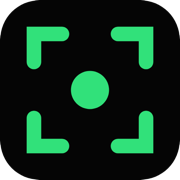
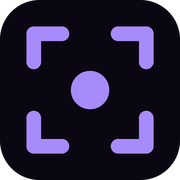
Rework theme to purple, refresh copy, add hover polish and CGPA
Switches the accent palette from green to purple with a deeper purple-tinted
background, strips the scanning-UI photo treatment for a clean rounded
frame, repositions the copy around building next-gen human-computer
interaction rather than voice agents specifically, adds intuitive hover
highlighting across tiles/cards, updates the favicon set to match the new
theme, and adds undergrad CGPA.

diff --git a/src/App.js b/src/App.js
@@ -46,9 +46,9 @@ function App() {
       <header className="hero">
         <div className="wrap hero-grid">
           <div className="hero-content">
-            <div className="hero-tag">Product Manager II · AI Native Experiences</div>
-            <h1>Kummetha Sai Charan</h1>
-            <div className="hero-role">Building <span>voice agents and AI agents</span> that operate at scale — turning emerging AI capability into trustworthy, everyday product experience.</div>
+            <div className="hero-tag">Builder · AI Native Product Experiences</div>
+            <h1>Sai Charan Kummetha</h1>
+            <div className="hero-role">I lead and build <span>the next generation of human-computer interaction</span> at scale — using what LLMs make possible to create AI products that actually work, solving real problems for users while driving net-positive outcomes for the business.</div>
 
             <div className="status-grid">
               <div className="status-item">
@@ -57,7 +57,7 @@ function App() {
               </div>
               <div className="status-item">
                 <div className="status-label">FOCUS</div>
-                <div className="status-value">VOICE + AI AGENTS, AT SCALE</div>
+                <div className="status-value">NEXT-GEN HCI, AT SCALE</div>
               </div>
               <div className="status-item">
                 <div className="status-label">LOCATION</div>
@@ -78,12 +78,9 @@ function App() {
           </div>
 
           <div className="hero-photo">
-            <div className="hero-photo-ring"></div>
             <div className="hero-photo-frame">
-              <img src={process.env.PUBLIC_URL + '/images/headshot.png'} alt="Kummetha Sai Charan" />
-              <div className="scan-line"></div>
+              <img src={process.env.PUBLIC_URL + '/images/headshot.png'} alt="Sai Charan Kummetha" />
             </div>
-            <div className="hero-photo-tag"><span className="dot"></span>SCK-01 // VERIFIED</div>
           </div>
         </div>
       </header>
@@ -96,11 +93,13 @@ function App() {
             <span className="module-rule"></span>
           </div>
           <p className="summary-text">
-            Product Manager with engineering experience — more than 5 years across Product Management, Software Engineering, and Applied AI.
-            Built and scaled 0→1 and growth-stage products spanning AI platforms, large-scale consumer applications,
-            marketplaces, supply chain, and financial workflows — combining strong product execution with deep
-            technical grounding in distributed systems, LLMs, voice agents, developer platforms, and data-driven
-            experimentation.
+            A builder first — more than 5 years across Product Management, Software Engineering, and Applied AI,
+            leading and shipping 0→1 and growth-stage products that solve real problems, not just manage roadmaps.
+            Built and scaled products spanning AI platforms, large-scale consumer applications, marketplaces, supply
+            chain, and financial workflows — combining strong product execution with deep technical grounding in
+            distributed systems, LLMs, conversational and agentic interfaces, developer platforms, and data-driven experimentation to drive
+            outcomes that are net-positive for users and the business alike. Long-term, I'm working toward building
+            a technology company of my own — at the convergence of AI, consumer tech, and AEC.
           </p>
         </section>
 
@@ -133,12 +132,11 @@ function App() {
                 <span className="entry-org">Vegrow</span>
                 <span className="entry-dates">JUL 2024 — FEB 2026</span>
               </div>
-              <p className="entry-story">Working at a hypergrowth startup meant learning and executing at an exceptional pace — gaining first-hand exposure to strategy, GTM, and data-driven decision-making. More than anything, I learned to navigate ambiguity: using data, customer insight, and cross-functional collaboration to build products that solved real business problems.</p>
+              <p className="entry-story">Working at a hypergrowth startup meant learning and executing at an exceptional pace — building and scaling products across AI, marketplaces, supply chain intelligence, and financial workflows, with first-hand exposure to strategy, GTM, finance, and data-driven decision-making. More than anything, I learned to navigate ambiguity: operating at the intersection of product and engineering, using data, customer insight, and cross-functional collaboration to build products that solved real business problems.</p>
               <ul>
-                <li>Built and scaled Vegrow's AI Voice Platform from prototype to 30,000+ conversations/month across NPS, profiling, slot booking, and ops workflows.</li>
-                <li>Improved task completion from 40% to 70% through conversation redesign, latency optimization, and interruption handling.</li>
-                <li>Raised NPS from 30 to 65 via structured feedback capture, sentiment analysis, and automated stakeholder reporting.</li>
-                <li>Built pluggable STT/TTS/LLM orchestration with evaluation and observability systems for rapid experimentation.</li>
+                <li>Led 0→1 development of Vegrow's AI Voice Platform, scaling it from prototype to 30,000+ conversations/month across NPS, profiling, slot booking, and ops workflows.</li>
+                <li>Improved task completion from 40% to 70% through conversation redesign, latency optimization, and interruption handling; raised NPS from 30 to 65 via structured feedback capture and sentiment analysis.</li>
+                <li>Built pluggable STT/TTS/LLM orchestration and AI platforms that accelerated experimentation and cut manual effort, positioning AI as a core layer across product and operations.</li>
                 <li>Delivered supply chain &amp; finance products supporting ₹70 Cr+ GMV, plus a Procure-to-Pay platform cutting approval turnaround by 40%.</li>
               </ul>
             </div>
@@ -150,11 +148,11 @@ function App() {
                 <span className="entry-org">Vegrow</span>
                 <span className="entry-dates">OCT 2022 — JUN 2024</span>
               </div>
-              <p className="entry-story">Progressing from SDE-I to leading an 8-member team in under two years, during Vegrow's 5× revenue growth, taught me as much about team dynamics and execution as it did about distributed systems. It was my first time leading engineers — and the same period I was invited to Google's Foobar Challenge.</p>
+              <p className="entry-story">Progressing from SDE-I to leading an 8-member team in under two years, during Vegrow's 5× revenue growth, taught me as much about team dynamics and execution as it did about distributed systems — Golang, Kafka, event-driven architecture, and scaling infrastructure for hypergrowth. It was my first time leading engineers — and the same period I was invited to Google's Foobar Challenge.</p>
               <ul>
                 <li>Progressed from SDE-I to leading an 8-member team during Vegrow's scale from ₹100 Cr to ₹500 Cr+ revenue.</li>
-                <li>Architected QR-based inventory traceability infrastructure in Golang, Kafka, and MongoDB.</li>
-                <li>Migrated core infrastructure from AWS ECS to EKS and built out CI/CD automation.</li>
+                <li>Led development of QR-based inventory traceability platforms in Golang, Kafka, and MongoDB, digitizing supply-chain operations for end-to-end tracking of perishable goods.</li>
+                <li>Built scalable authentication services and internal frameworks, improving platform reliability and observability; migrated core infrastructure from AWS ECS to EKS with CI/CD automation.</li>
                 <li>Contributed LiDAR + stereo-capture pipelines to the Velens computer vision initiative.</li>
               </ul>
             </div>
@@ -166,11 +164,11 @@ function App() {
                 <span className="entry-org">LivSYT</span>
                 <span className="entry-dates">MAY 2021 — OCT 2022</span>
               </div>
-              <p className="entry-story">This role laid the foundation for my engineering career. I spent all my time learning backend systems and scalable architecture simply because I loved it — and watching code I wrote in India power products used by customers across the world remains one of the most rewarding parts of the journey.</p>
+              <p className="entry-story">This role laid the foundation for my engineering career. I spent all my time learning backend systems, databases, and scalable architecture simply because I loved it — excited to see technology solving real problems in the construction industry. Watching code I wrote in India power products used by customers across the world remains one of the most rewarding parts of the journey.</p>
               <ul>
-                <li>Built backend systems for a B2B construction-tech SaaS platform scaling from 0 to $0.5M ARR.</li>
-                <li>Designed state-machine-based workflow orchestration and event-driven notification systems.</li>
-                <li>Built RBAC and auditing frameworks for enterprise workflows.</li>
+                <li>Built and scaled backend systems for a B2B AEC AI SaaS platform serving Western and Southeast Asian markets using Node.js, PostgreSQL, and AWS, growing from 0 to $0.5M ARR.</li>
+                <li>Delivered end-to-end features from design to deployment and optimized core workflows using state-machine orchestration to improve performance and scalability.</li>
+                <li>Designed event-driven notification systems (AWS, FCM, SES) and built RBAC and auditing frameworks for enterprise workflows.</li>
               </ul>
             </div>
 
@@ -181,7 +179,7 @@ function App() {
                 <span className="entry-org">Arth Design Build</span>
                 <span className="entry-dates">JAN 2020 — JUN 2020</span>
               </div>
-              <p className="entry-story">Working on BIM automation and generative design with genetic algorithms — before the rise of LLMs — was my first real exposure to AI-driven problem-solving. It's what led me to consciously pivot into software engineering, convinced that understanding how real systems are built is foundational to creating technology that matters.</p>
+              <p className="entry-story">Working on BIM automation and generative design with genetic algorithms — before the rise of LLMs — was my first real exposure to AI-driven problem-solving, and to what's possible at the convergence of AI and traditional industries like AEC. Coming from a top technical institute, I felt positioned to solve those problems — which is what led me to consciously pivot into software engineering: to understand real-world systems, and what it actually takes to build a technology company.</p>
               <ul>
                 <li>Built generative design workflows using NSGA-II optimization for parking layouts and tower orientation studies.</li>
                 <li>Automated BIM processes with Revit Dynamo, Python, and Revit APIs.</li>
@@ -304,8 +302,8 @@ function App() {
           <div className="edu-entry edu-entry-photo">
             <div className="edu-entry-text">
               <div className="edu-school">Indian Institute of Technology, Kharagpur</div>
-              <div className="edu-detail">Bachelor's (Honours), Architecture · 2016 — 2021</div>
-              <div className="edu-note">Pursued with a passion to study emerging technology that can shape future built environments. Gained strong exposure to Computational Design, Technology, Architecture, and AI.</div>
+              <div className="edu-detail">Bachelor's (Honours), Architecture · 2016 — 2021 · 7.6 CGPA</div>
+              <div className="edu-note">Chose architecture drawn by a fascination with geometry, mechanics, and spatial design, and pursued it with a passion to study emerging technology that can shape future built environments. Gained strong exposure to Computational Design, Technology, Architecture, and AI.</div>
             </div>
             <img className="edu-photo" src={process.env.PUBLIC_URL + '/images/iit-convocation.png'} alt="Convocation at IIT Kharagpur" />
           </div>
@@ -334,7 +332,7 @@ function App() {
             <a className="link-chip" href="https://saicharankummetha.medium.com" target="_blank" rel="noopener noreferrer">Blog ↗</a>
             <a className="link-chip" href="https://github.com/charan44k" target="_blank" rel="noopener noreferrer">GitHub ↗</a>
           </div>
-          <div className="footer-meta">© KUMMETHA SAI CHARAN · BENGALURU, IN · SYSTEM NOMINAL</div>
+          <div className="footer-meta">© SAI CHARAN KUMMETHA · BENGALURU, IN · SYSTEM NOMINAL</div>
         </div>
       </footer>
     </>

diff --git a/src/App.css b/src/App.css
@@ -1,18 +1,18 @@
 @import url('https://fonts.googleapis.com/css2?family=Space+Grotesk:wght@500;600;700&family=Inter:wght@400;500;600;700&display=swap');
 
 :root {
-  --bg: #050505;
-  --surface: #131313;
-  --surface-2: #1B1B1B;
-  --border: #2A2A2A;
-  --border-soft: #1C1C1C;
+  --bg: #0A0712;
+  --surface: #150F1F;
+  --surface-2: #1D1629;
+  --border: #2D2242;
+  --border-soft: #1C1529;
   --text: #FAFAFA;
-  --text-soft: #C9C9C9;
-  --muted: #8F8F8F;
-  --muted-dim: #5A5A5A;
-  --accent: #31E17A;
-  --accent-dim: rgba(49, 225, 122, 0.12);
-  --accent-strong: #B9FFD4;
+  --text-soft: #CBC5DA;
+  --muted: #928AA6;
+  --muted-dim: #5C5570;
+  --accent: #A78BFA;
+  --accent-dim: rgba(167, 139, 250, 0.14);
+  --accent-strong: #DCCCFF;
   --blue: #7DA3FF;
   --blue-dim: rgba(125, 163, 255, 0.12);
   --sand: #E8B76B;
@@ -123,34 +123,7 @@ a:focus-visible, button:focus-visible { outline: 2px solid var(--accent); outlin
   position: relative;
   flex: 0 0 auto;
   width: clamp(190px, 20vw, 260px);
-  padding: 14px 18px 22px 14px;
 }
-
-.hero-photo-ring {
-  position: absolute;
-  inset: 0;
-  border: 1px solid rgba(49, 225, 122, 0.4);
-  transform: rotate(6deg);
-  pointer-events: none;
-}
-@media (prefers-reduced-motion: no-preference) {
-  .hero-photo-ring { animation: ring-pulse 5s ease-in-out infinite; }
-}
-@keyframes ring-pulse {
-  0%, 100% { opacity: 0.45; transform: rotate(6deg) scale(1); }
-  50% { opacity: 0.85; transform: rotate(6deg) scale(1.015); }
-}
-
-.hero-photo::before,
-.hero-photo::after {
-  content: '';
-  position: absolute;
-  width: 22px;
-  height: 22px;
-  border: 2px solid var(--accent);
-}
-.hero-photo::before { top: 2px; right: 6px; border-left: none; border-bottom: none; }
-.hero-photo::after { bottom: 10px; left: 2px; border-right: none; border-top: none; }
 
 .hero-photo-frame {
   position: relative;
@@ -158,8 +131,8 @@ a:focus-visible, button:focus-visible { outline: 2px solid var(--accent); outlin
   overflow: hidden;
   background: var(--surface);
   border: 1px solid var(--border);
-  clip-path: polygon(28px 0, 100% 0, 100% 100%, 0 100%, 0 28px);
-  box-shadow: 0 25px 70px -25px rgba(49, 225, 122, 0.4);
+  border-radius: 20px;
+  box-shadow: 0 25px 70px -25px rgba(167, 139, 250, 0.35);
 }
 
 .hero-photo-frame img {
@@ -167,53 +140,11 @@ a:focus-visible, button:focus-visible { outline: 2px solid var(--accent); outlin
   height: 100%;
   object-fit: cover;
   display: block;
-  filter: contrast(1.05) saturate(0.95);
 }
-
-.scan-line {
-  position: absolute;
-  left: 0;
-  right: 0;
-  top: 0;
-  height: 2px;
-  background: linear-gradient(90deg, transparent, var(--accent), transparent);
-  box-shadow: 0 0 10px var(--accent);
-  opacity: 0.85;
-}
-@media (prefers-reduced-motion: no-preference) {
-  .scan-line { animation: scan 3.6s ease-in-out infinite; }
-}
-@keyframes scan {
-  0%, 100% { top: 0; }
-  50% { top: calc(100% - 2px); }
-}
-
-.hero-photo-tag {
-  position: absolute;
-  z-index: 2;
-  left: 14px;
-  bottom: -4px;
-  display: flex;
-  align-items: center;
-  gap: 7px;
-  background: var(--bg);
-  border: 1px solid var(--border);
-  border-radius: 999px;
-  padding: 6px 14px 6px 11px;
-  font-family: var(--font-body);
-  font-size: 10px;
-  font-weight: 700;
-  letter-spacing: 0.08em;
-  text-transform: uppercase;
-  color: var(--accent);
-  white-space: nowrap;
-}
-.hero-photo-tag .dot { box-shadow: 0 0 6px var(--accent); }
 
 @media (max-width: 780px) {
   .hero-grid { flex-direction: column-reverse; align-items: flex-start; gap: 48px; }
   .hero-photo { width: 175px; margin-left: 4px; }
-  .hero-photo-tag { font-size: 9px; padding: 5px 12px 5px 9px; letter-spacing: 0.05em; }
 }
 
 .hero-tag {
@@ -225,7 +156,7 @@ a:focus-visible, button:focus-visible { outline: 2px solid var(--accent); outlin
   text-transform: uppercase;
   color: var(--accent);
   background: var(--accent-dim);
-  border: 1px solid rgba(49, 225, 122, 0.3);
+  border: 1px solid rgba(167, 139, 250, 0.3);
   padding: 8px 16px;
   border-radius: 999px;
   margin-bottom: 26px;
@@ -261,11 +192,15 @@ a:focus-visible, button:focus-visible { outline: 2px solid var(--accent); outlin
 
 .status-item {
   flex: 1 1 170px;
-  padding: 20px 24px 20px 0;
+  padding: 20px 24px 20px 14px;
   margin-right: 24px;
+  margin-left: -14px;
   border-right: 1px solid var(--border-soft);
+  border-radius: 10px;
+  transition: background 0.2s;
 }
 .status-item:last-child { border-right: none; margin-right: 0; }
+.status-item:hover { background: var(--accent-dim); }
 
 .status-label {
   font-family: var(--font-body);
@@ -275,13 +210,16 @@ a:focus-visible, button:focus-visible { outline: 2px solid var(--accent); outlin
   text-transform: uppercase;
   color: var(--muted-dim);
   margin-bottom: 7px;
+  transition: color 0.2s;
 }
+.status-item:hover .status-label { color: var(--accent); }
 
 .status-value {
   font-family: var(--font-display);
   font-size: 17px;
   font-weight: 600;
   color: var(--text);
+  transition: color 0.2s;
 }
 
 .status-value.live { color: var(--accent); }
@@ -307,7 +245,7 @@ a:focus-visible, button:focus-visible { outline: 2px solid var(--accent); outlin
 .link-chip.primary {
   background: var(--accent);
   border-color: var(--accent);
-  color: #06170D;
+  color: #180F2E;
 }
 .link-chip.primary:hover { background: var(--accent-strong); border-color: var(--accent-strong); }
 
@@ -359,11 +297,16 @@ a:focus-visible, button:focus-visible { outline: 2px solid var(--accent); outlin
   transition: border-color 0.2s, transform 0.2s, box-shadow 0.2s;
 }
 .entry:last-child { margin-bottom: 0; }
-.entry:hover { border-color: var(--border); transform: translateY(-2px); }
+.entry:hover {
+  border-color: rgba(167, 139, 250, 0.35);
+  background: var(--surface-2);
+  transform: translateY(-3px);
+  box-shadow: 0 14px 34px -20px rgba(167, 139, 250, 0.4);
+}
 
 .entry.active {
-  border-color: rgba(49, 225, 122, 0.4);
-  box-shadow: 0 10px 34px -16px rgba(49, 225, 122, 0.3);
+  border-color: rgba(167, 139, 250, 0.4);
+  box-shadow: 0 10px 34px -16px rgba(167, 139, 250, 0.3);
 }
 
 .entry-top {
@@ -397,7 +340,7 @@ a:focus-visible, button:focus-visible { outline: 2px solid var(--accent); outlin
   border-radius: 999px;
   margin-bottom: 12px;
 }
-.tag.ai { color: var(--accent); background: var(--accent-dim); border: 1px solid rgba(49, 225, 122, 0.35); }
+.tag.ai { color: var(--accent); background: var(--accent-dim); border: 1px solid rgba(167, 139, 250, 0.35); }
 .tag.eng { color: var(--blue); background: var(--blue-dim); border: 1px solid rgba(125, 163, 255, 0.35); }
 .tag.research { color: var(--sand); background: var(--sand-dim); border: 1px solid rgba(232, 183, 107, 0.35); }
 
@@ -488,9 +431,14 @@ a:focus-visible, button:focus-visible { outline: 2px solid var(--accent); outlin
   border: 1px solid var(--border-soft);
   border-radius: 16px;
   padding: 24px 26px;
-  transition: border-color 0.2s, transform 0.2s;
+  transition: border-color 0.2s, background 0.2s, transform 0.2s, box-shadow 0.2s;
 }
-.ach-card:hover { border-color: var(--border); transform: translateY(-2px); }
+.ach-card:hover {
+  border-color: rgba(167, 139, 250, 0.35);
+  background: var(--surface-2);
+  transform: translateY(-3px);
+  box-shadow: 0 14px 34px -20px rgba(167, 139, 250, 0.4);
+}
 
 .ach-year {
   font-family: var(--font-body);
@@ -514,9 +462,15 @@ a:focus-visible, button:focus-visible { outline: 2px solid var(--accent); outlin
   border: 1px solid var(--border-soft);
   border-radius: 14px;
   padding: 20px 24px;
-  transition: border-color 0.2s, transform 0.2s;
+  transition: border-color 0.2s, background 0.2s, transform 0.2s, box-shadow 0.2s;
 }
-.post:hover { border-color: var(--border); transform: translateY(-2px); }
+.post:hover {
+  border-color: rgba(167, 139, 250, 0.35);
+  background: var(--surface-2);
+  transform: translateY(-3px) translateX(2px);
+  box-shadow: 0 14px 34px -20px rgba(167, 139, 250, 0.4);
+}
+.post:hover .post-title { color: var(--accent-strong); }
 
 .post-main { min-width: 0; }
 .post-title { font-family: var(--font-display); font-size: 16px; font-weight: 600; margin-bottom: 5px; }

diff --git a/public/index.html b/public/index.html
@@ -6,7 +6,7 @@
     <link rel="icon" type="image/png" sizes="32x32" href="%PUBLIC_URL%/favicon-32.png" />
     <link rel="icon" type="image/png" sizes="16x16" href="%PUBLIC_URL%/favicon-16.png" />
     <meta name="viewport" content="width=device-width, initial-scale=1" />
-    <meta name="theme-color" content="#000000" />
+    <meta name="theme-color" content="#0A0712" />
     <meta
       name="description"
       content="Kummetha Sai Charan - Product Manager specializing in AI & Automation | Ex-SDE | IIT Kharagpur"

diff --git a/src/NodeField.js b/src/NodeField.js
@@ -1,6 +1,6 @@
 import React, { useEffect, useRef } from 'react';
 
-const COLORS = ['49,225,122', '125,163,255', '232,183,107'];
+const COLORS = ['167,139,250', '125,163,255', '232,183,107'];
 
 function NodeField() {
   const canvasRef = useRef(null);
